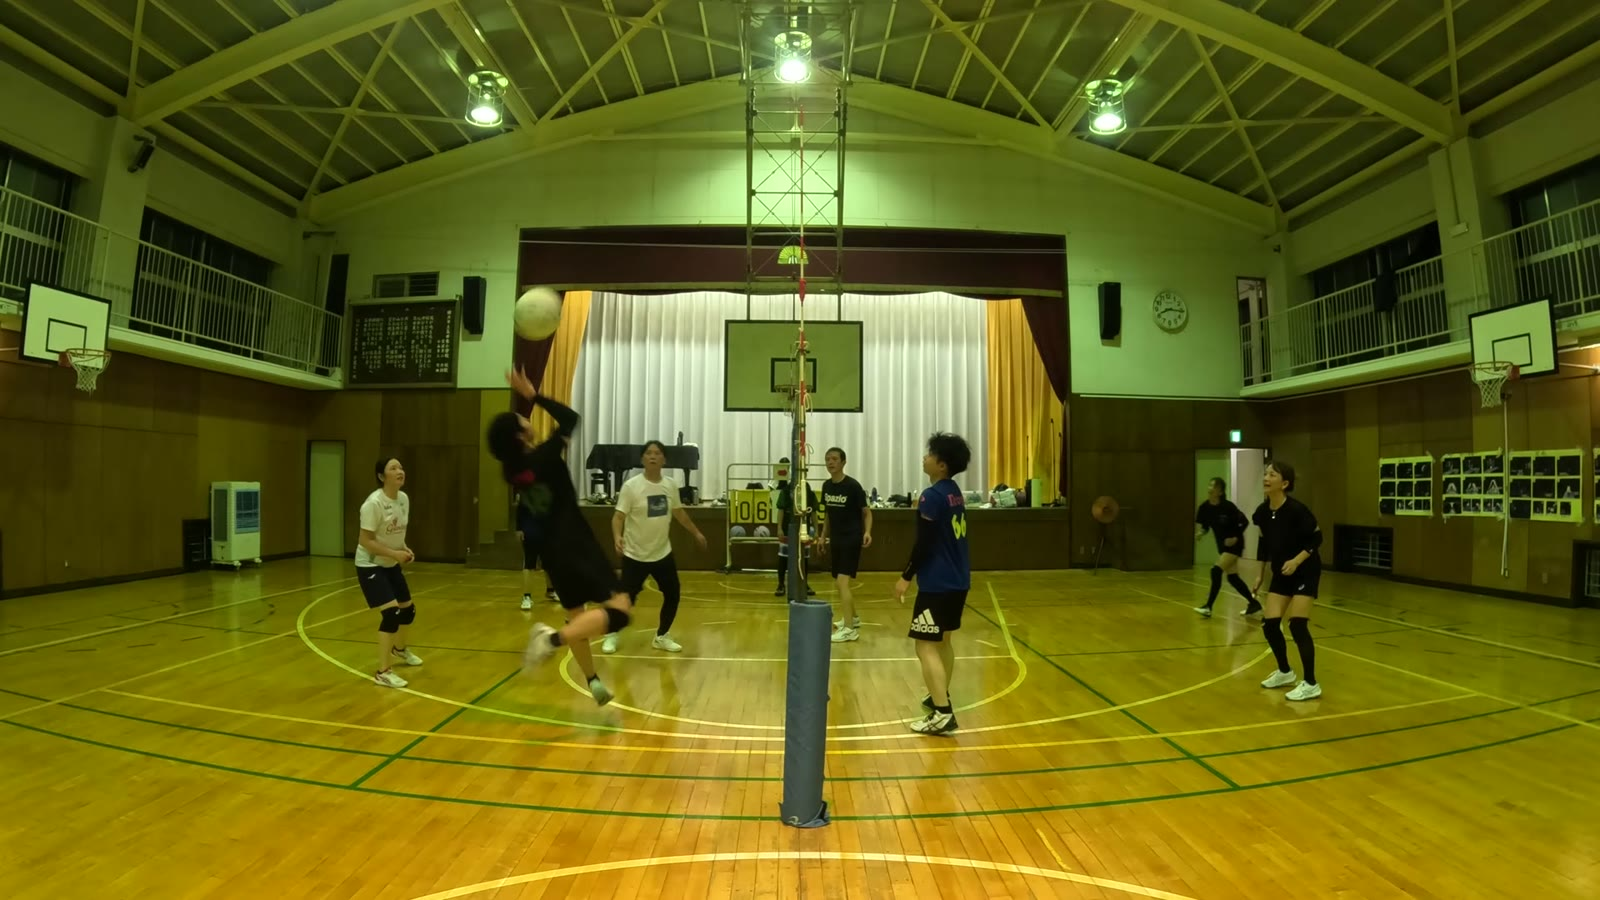
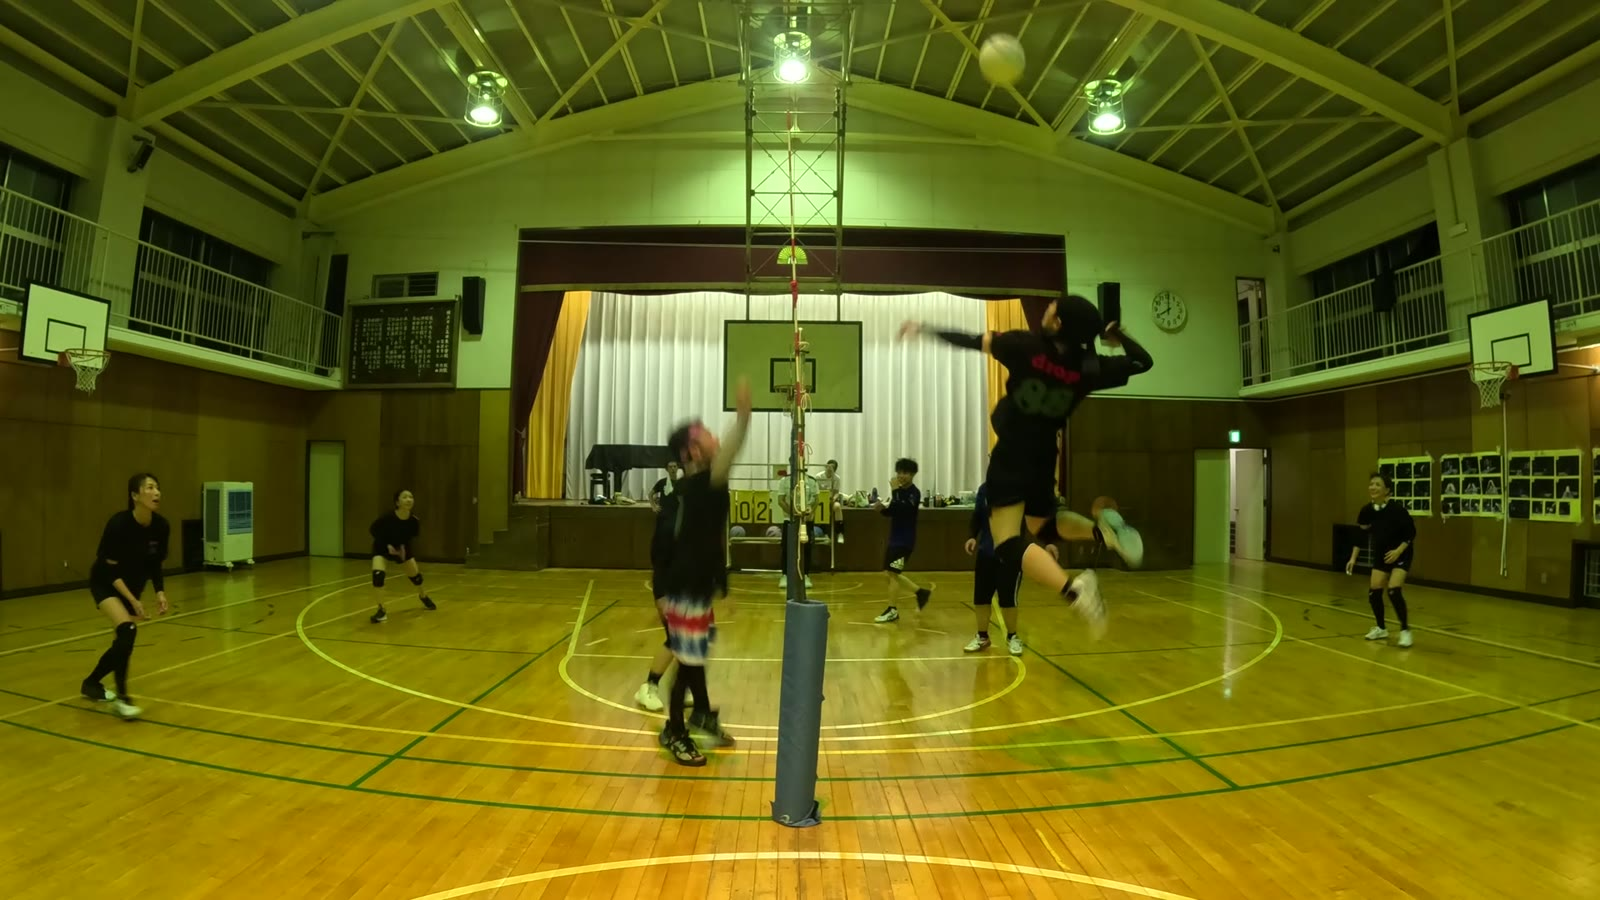
8/1講評: けんぼうレビューを反映(誤認の場面を削除・写真を差し替え)し、公開する

diff --git a/kouhyou/20260801.html b/kouhyou/20260801.html
@@ -370,7 +370,7 @@
       <div class="award-body">
         <div class="award-label"><svg class="crown" viewBox="0 0 24 24" aria-hidden="true"><path d="M3 8.5l3.6 2.7L12 4l5.4 7.2L21 8.5 19.3 19H4.7L3 8.5z" fill="#f0b429" stroke="#c98a10" stroke-width="1.1" stroke-linejoin="round"/><circle cx="3" cy="7.6" r="1.5" fill="#f0b429"/><circle cx="21" cy="7.6" r="1.5" fill="#f0b429"/><circle cx="12" cy="3.2" r="1.6" fill="#f0b429"/></svg>MVP</div>
         <div class="award-who">やまさん</div>
-        <div class="award-why">2分台の開始直後から74分台まで、位置取り・レシーブ・サーブ・アタックのすべてで顔を出し続けた</div>
+        <div class="award-why">レシーブ・サーブ・アタックと役割を変えながら、最初から終盤までコートに立ち続けた</div>
       </div>
       <span class="award-go"><svg viewBox="0 0 24 24" fill="none" stroke="currentColor" stroke-width="2.5"><path d="M9 5l7 7-7 7"></path></svg></span>
     </a>
@@ -380,7 +380,7 @@
       <div class="award-body">
         <div class="award-label">アタック賞</div>
         <div class="award-who">るき</div>
-        <div class="award-why">3つの区間にわたり、ジャンプでの打球とジャンプサーブを繰り返し見せた</div>
+        <div class="award-why">ネット際で高く跳び上がり、頭上のボールへ腕を振り抜いた</div>
       </div>
       <span class="award-go"><svg viewBox="0 0 24 24" fill="none" stroke="currentColor" stroke-width="2.5"><path d="M9 5l7 7-7 7"></path></svg></span>
     </a>
@@ -426,12 +426,6 @@
       <img class="mvp-face" src="faces/yamasan.jpg" alt="やまさん">
       <div class="summary-value"><span class="mvp-name">やまさん</span></div>
     </div>
-    <p><a href="https://youtu.be/7jHipM13_IE?t=482" target="_blank" rel="noopener">8:10</a>、レシーブ→セット→アタックの三段の形がはっきり見える場面がありました。</p>
-    <a class="shot" href="https://youtu.be/7jHipM13_IE?t=487" target="_blank" rel="noopener">
-      <img src="shots0801/yamasan-3dan.jpg" alt="ネット際で跳び上がり、頭上のボールへ腕を振り上げる選手" loading="lazy">
-      <span class="play"><span><svg viewBox="0 0 24 24"><path d="M8 5v14l11-7z"></path></svg></span></span>
-      <span class="cap"><span class="at">8:15</span></span>
-    </a>
     <p><a href="https://youtu.be/7jHipM13_IE?t=3487" target="_blank" rel="noopener">58:15</a>には低い姿勢を素早く作ってのレシーブ、<a href="https://youtu.be/7jHipM13_IE?t=4455" target="_blank" rel="noopener">74:23</a>にはネット際でのジャンプ。</p>
     <p><strong>レシーブ・サーブ・アタックと役割を変えながら、最初から終盤までコートに立ち続けていました。</strong>これほど広い時間帯に繰り返し登場した選手は、この日ほかにいません。</p>
   </div>
@@ -442,13 +436,13 @@
       <img class="mvp-face" src="faces/ruki.jpg" alt="るき">
       <div class="summary-value"><span class="mvp-name">るき</span></div>
     </div>
-    <p><a href="https://youtu.be/7jHipM13_IE?t=3657" target="_blank" rel="noopener">1:01:05</a>、助走からジャンプ、腕の振り下ろしまでが一続きで見える、<strong>この日でもっとも明確なアタック</strong>でした。</p>
-    <a class="shot" href="https://youtu.be/7jHipM13_IE?t=3658" target="_blank" rel="noopener">
-      <img src="shots0801/ruki-attack.jpg" alt="助走から跳び上がり、片腕を伸ばしてボールをとらえる選手" loading="lazy">
+    <p><a href="https://youtu.be/7jHipM13_IE?t=2748" target="_blank" rel="noopener">45:56</a>、ネット際で高く跳び上がり、頭上のボールへ腕を振り抜きました。</p>
+    <a class="shot" href="https://youtu.be/7jHipM13_IE?t=2748" target="_blank" rel="noopener">
+      <img src="shots0801/ruki-attack.jpg" alt="ネット際で高く跳び上がり、頭上のボールへ腕を振り上げる選手" loading="lazy">
       <span class="play"><span><svg viewBox="0 0 24 24"><path d="M8 5v14l11-7z"></path></svg></span></span>
-      <span class="cap"><span class="at">1:01:06</span></span>
+      <span class="cap"><span class="at">45:56</span></span>
     </a>
-    <p>ほかにも<a href="https://youtu.be/7jHipM13_IE?t=2748" target="_blank" rel="noopener">45:56</a>のネット際での打球、<a href="https://youtu.be/7jHipM13_IE?t=3140" target="_blank" rel="noopener">52:28</a>のジャンプサーブ。<strong>「打つ」形が何度も繰り返し見られ、攻撃の場面でもっとも多く名前が挙がった選手です。</strong></p>
+    <p><strong>踏み切りの高さと、振り抜くまでの一連の形がはっきり見えた一本でした。</strong></p>
   </div>
 
   <h2 id="chinplay">珍プレー賞 — やっさん</h2>
@@ -488,7 +482,7 @@
 
   <h2 id="fine">ファインプレー賞は今回は該当なし</h2>
   <div class="card">
-    <p>ダイビングなど守備の場面そのものは何度も見られましたが、<strong>コートの奥行きが圧縮される画角のため、選手を特定できる形で追いきれた場面が見つかりませんでした。</strong>次回はここもあらためて探してみます。</p>
+    <p>ダイビングなど守備の場面そのものは何度も見られましたが、<strong>これまでと違うカメラで撮影された動画で構成がかなり異なっていたので、選手を特定できる形で追いきれた場面が見つかりませんでした。</strong>次回はここもあらためて探してみます。</p>
   </div>
 
   <h2 id="mikokoro">この日の見どころ</h2>

diff --git a/index.html b/index.html
@@ -466,7 +466,7 @@
 
   const practiceDays = [
     { date: "2026/08/08", label: "くぬぎ台小学校 道場破り錬", videos: [{ name: "動画", id: "xZiFJFsI5cE" }] },
-    { date: "2026/08/01", label: "Drop錬", reviewSoon: "kouhyou/20260801.html",
+    { date: "2026/08/01", label: "Drop錬", review: "kouhyou/20260801.html",
       videos: [{ name: "動画", id: "7jHipM13_IE" }] },
     { date: "2026/07/25", label: "練習", review: "kouhyou/20260725.html",
       videos: [{ name: "メイン動画", id: "s8C9jfAcxgo" }, { name: "サブ動画", id: "EijMzowXRkw" }] },
